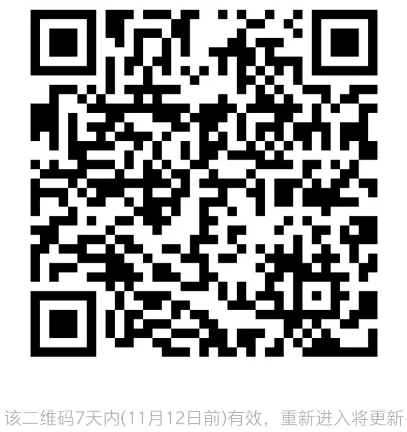
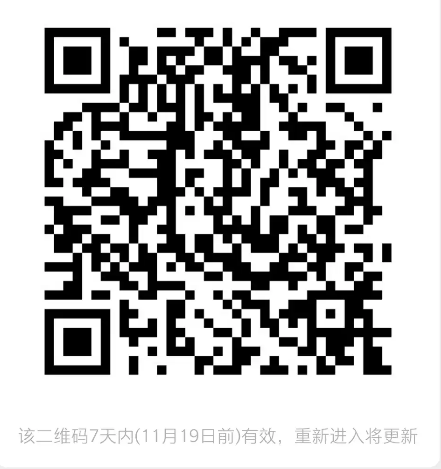
update

diff --git a/gnqc/index.html b/gnqc/index.html
@@ -24,6 +24,14 @@
             background-color: rgba(255, 255, 255, .7);
         }
 
+        .no-margin {
+            margin: 0;
+        }
+
+        .margin-top {
+            margin-top: 25px;
+        }
+
         .carousel-inner > .item > img {
             width: 100%;
         }
@@ -107,7 +115,7 @@
     <div id="detail">
         <div class="container">
             <h3>详情</h3>
-            <div class="panel panel-default">
+            <div class="panel panel-default no-margin">
                 <div class="panel-heading">
                     <h3 class="panel-title">单价</h3>
                 </div>
@@ -126,9 +134,8 @@
                             <th>单价</th>
                             <td>
                                 <div class="pull-left">
-                                    148 元 / 20 斤 / 箱<br>
-                                    &nbsp;&nbsp;95 元 / 10 斤 / 箱<br>
-                                    (非偏远地区包邮)
+                                    120 元 / 20 斤 / 箱 + 邮费<br>
+                                    &nbsp;&nbsp;75 元 / 10 斤 / 箱 + 邮费<br>
                                 </div>
                             </td>
                         </tr>
@@ -136,6 +143,8 @@
                     </table>
                 </div>
                 <div class="panel-footer text-center">
+                    <a class="btn btn-default" data-toggle="collapse" href="#collapseExpress"
+                       aria-expanded="false" aria-controls="collapseExpress">查看邮费 </a>
                     <a href="#buy" type="button" class="btn btn-primary nav-to" data-href="#buy">立即购买</a>
                     <div class="wx-notice">
                         ↑↑↑微信内置浏览器显示页面不完整，请点击<strong>原网页</strong>后在下一页底部点击<strong>访问原网页</strong>；
@@ -143,8 +152,64 @@
                     </div>
                 </div>
             </div>
+            <div class="collapse" id="collapseExpress">
+                <div class="table-responsive">
+                    <table class="table table-hover table-bordered table-striped no-margin">
+                        <thead>
+                        <tr>
+                            <th>寄达地</th>
+                            <th>10斤</th>
+                            <th>20斤</th>
+                        </tr>
+                        </thead>
+                        <tbody>
+                        <tr>
+                            <th>江西、广东、江苏、浙江、上海、福建、安徽、湖南、湖北</th>
+                            <td>10</td>
+                            <td>16</td>
+                        </tr>
+                        <tr>
+                            <th>天津、河南、河北、山东、广西、海南</th>
+                            <td>16</td>
+                            <td>26</td>
+                        </tr>
+                        <tr>
+                            <th>北京、山西</th>
+                            <td>18</td>
+                            <td>31</td>
+                        </tr>
+                        <tr>
+                            <th>四川、重庆、云南、贵州</th>
+                            <td>21</td>
+                            <td>35</td>
+                        </tr>
+                        <tr>
+                            <th>陕西、甘肃、宁夏、内蒙古、黑龙江、吉林、辽宁</th>
+                            <td>24</td>
+                            <td>46</td>
+                        </tr>
+                        <tr>
+                            <th>新疆、西藏、青海</th>
+                            <td>60</td>
+                            <td>100</td>
+                        </tr>
+                        </tbody>
+                        <tfoot>
+                        <tr>
+                            <td colspan="3" class="text-center" style="padding: 0">
+                                <a href="https://weidian.com/?userid=1271341380" target="_blank"
+                                   class="btn btn-primary" style="display: block">微店购买</a>
+                            </td>
+                        </tr>
+                        </tfoot>
+                    </table>
+                </div>
+                <a class="btn btn-default btn-sm" data-toggle="collapse" href="#collapseExpress"
+                   aria-expanded="false" aria-controls="collapseExpress"
+                   style="display: inline-block; width: 100%;">收起邮费表</a>
+            </div>
 
-            <div id="carousel-example-generic" class="carousel slide" data-ride="carousel">
+            <div id="carousel-example-generic" class="carousel slide margin-top" data-ride="carousel">
 
                 <ol class="carousel-indicators">
                     <li data-target="#carousel-example-generic" data-slide-to="0" class="active"></li>
